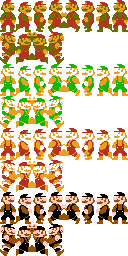
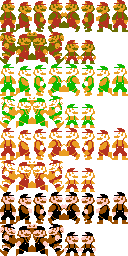
Animations powerup/powerdown, damage sound, deleted unused images

diff --git a/02-Bubble/Player.cpp b/02-Bubble/Player.cpp
@@ -23,7 +23,8 @@
 
 enum PlayerAnims
 {
-	STAND_LEFT, STAND_RIGHT, MOVE_LEFT, MOVE_RIGHT, SKID_RIGHT, SKID_LEFT, JUMP_RIGHT, JUMP_LEFT, DEATH, FLAGPOLE
+	STAND_LEFT, STAND_RIGHT, MOVE_LEFT, MOVE_RIGHT, SKID_RIGHT, SKID_LEFT, JUMP_RIGHT, JUMP_LEFT, DEATH, FLAGPOLE,
+	MID_LEFT, MID_RIGHT
 };
 
 
@@ -32,6 +33,7 @@ void Player::init(const glm::ivec2& tileMapPos, ShaderProgram& shaderProgram)
 	bJumping = false;
 	bigMario = false;
 	starMario = false;
+	powerDownAnim = false;
 	bFalling = false;
 	gameOver = false;
 	allowChangeTimer = 0;
@@ -39,10 +41,13 @@ void Player::init(const glm::ivec2& tileMapPos, ShaderProgram& shaderProgram)
 	vel = glm::vec2(0.f, 0.f);
 	jumpHeight = 69;
 	starTime = 0;
+	midTimer = -1;
 
 	// Small Mario
 
-	spritesheet.loadFromFile("images/mario128.png", TEXTURE_PIXEL_FORMAT_RGBA);
+	spritesheet.loadFromFile("images/mario128-s.png", TEXTURE_PIXEL_FORMAT_RGBA);
+	spritesheetBig.loadFromFile("images/big-mario-s.png", TEXTURE_PIXEL_FORMAT_RGBA);
+
 	sprite = Sprite::createSprite(glm::ivec2(16, 16), glm::vec2(0.125, 0.125), &spritesheet, &shaderProgram);
 	sprite->setNumberAnimations(10);
 
@@ -74,7 +79,6 @@ void Player::init(const glm::ivec2& tileMapPos, ShaderProgram& shaderProgram)
 	sprite->setAnimationSpeed(JUMP_LEFT, 8);
 	sprite->addKeyframe(JUMP_LEFT, glm::vec2(0.5f, 0.125f));
 
-
 	sprite->setAnimationSpeed(DEATH, 1);
 	sprite->addKeyframe(DEATH, glm::vec2(0.25f, 0.125f));
 
@@ -87,9 +91,8 @@ void Player::init(const glm::ivec2& tileMapPos, ShaderProgram& shaderProgram)
 
 
 	// Big Mario
-	spritesheetBig.loadFromFile("images/big-mario.png", TEXTURE_PIXEL_FORMAT_RGBA);
 	bigSprite = Sprite::createSprite(glm::ivec2(16, 32), glm::vec2(0.125, 0.125), &spritesheetBig, &shaderProgram);
-	bigSprite->setNumberAnimations(8);
+	bigSprite->setNumberAnimations(12);
 
 	bigSprite->setAnimationSpeed(STAND_LEFT, 8);
 	bigSprite->addKeyframe(STAND_LEFT, glm::vec2(1.0 - 0.125, 0.f));
@@ -119,13 +122,19 @@ void Player::init(const glm::ivec2& tileMapPos, ShaderProgram& shaderProgram)
 	bigSprite->setAnimationSpeed(JUMP_LEFT, 8);
 	bigSprite->addKeyframe(JUMP_LEFT, glm::vec2(0.25f, 0.125f));
 
+	bigSprite->setAnimationSpeed(MID_RIGHT, 1);
+	bigSprite->addKeyframe(MID_RIGHT, glm::vec2(0.5f, 0.125f));
+
+	bigSprite->setAnimationSpeed(MID_LEFT, 1);
+	bigSprite->addKeyframe(MID_LEFT, glm::vec2(0.625f, 0.125f));
+
 	bigSprite->changeAnimation(0, false);
 	tileMapDispl = tileMapPos;
 	bigSprite->setPosition(glm::vec2(float(tileMapDispl.x + posPlayer.x), float(tileMapDispl.y + posPlayer.y)));
 
 	// Star Mario
 
-	spritesheet.loadFromFile("images/mario128-s.png", TEXTURE_PIXEL_FORMAT_RGBA);
+	//spritesheet.loadFromFile("images/mario128-s.png", TEXTURE_PIXEL_FORMAT_RGBA);
 	starSprite = Sprite::createSprite(glm::ivec2(16, 16), glm::vec2(0.125, 0.125), &spritesheet, &shaderProgram);
 	starSprite->setNumberAnimations(9);
 
@@ -207,7 +216,7 @@ void Player::init(const glm::ivec2& tileMapPos, ShaderProgram& shaderProgram)
 
 	spritesheetBig.loadFromFile("images/big-mario-s.png", TEXTURE_PIXEL_FORMAT_RGBA);
 	starbigSprite = Sprite::createSprite(glm::ivec2(16, 32), glm::vec2(0.125, 0.125), &spritesheetBig, &shaderProgram);
-	starbigSprite->setNumberAnimations(9);
+	starbigSprite->setNumberAnimations(12);
 
 	starbigSprite->setAnimationSpeed(STAND_LEFT, 8);
 	starbigSprite->addKeyframe(STAND_LEFT, glm::vec2(1.0 - 0.125, 0.f));
@@ -276,6 +285,19 @@ void Player::init(const glm::ivec2& tileMapPos, ShaderProgram& shaderProgram)
 	starbigSprite->setAnimationSpeed(FLAGPOLE, 1);
 	starbigSprite->addKeyframe(FLAGPOLE, glm::vec2(0.75f, 0.125f));
 
+	starbigSprite->setAnimationSpeed(MID_RIGHT, 4);
+	starbigSprite->addKeyframe(MID_RIGHT, glm::vec2(0.5f, 0.125f));
+	starbigSprite->addKeyframe(MID_RIGHT, glm::vec2(0.5f, 0.375f));
+	starbigSprite->addKeyframe(MID_RIGHT, glm::vec2(0.5f, 0.625f));
+	starbigSprite->addKeyframe(MID_RIGHT, glm::vec2(0.5f, 0.875f));
+
+	starbigSprite->setAnimationSpeed(MID_LEFT, 4);
+	starbigSprite->addKeyframe(MID_LEFT, glm::vec2(0.625f, 0.125f));
+	starbigSprite->addKeyframe(MID_LEFT, glm::vec2(0.625f, 0.375f));
+	starbigSprite->addKeyframe(MID_LEFT, glm::vec2(0.625f, 0.625f));
+	starbigSprite->addKeyframe(MID_LEFT, glm::vec2(0.625f, 0.875f));
+
+
 	starbigSprite->changeAnimation(0, false);
 	tileMapDispl = tileMapPos;
 	starbigSprite->setPosition(glm::vec2(float(tileMapDispl.x + posPlayer.x), float(tileMapDispl.y + posPlayer.y)));
@@ -303,6 +325,19 @@ void Player::update(int deltaTime)
 		if (posPlayer.y >= 256 && deadAnimCounter < 0) gameOver = true;
 
 		return;
+	}
+
+	if (midTimer >= 0){
+		midTimer -= deltaTime;
+
+		if (midTimer < 0)
+			changeAnimation(vel.x >= 0 ? STAND_RIGHT : STAND_LEFT);
+
+		if (midTimer < 0 && powerDownAnim){
+			powerDownAnim = false;
+			bigMario = false;
+			posPlayer.y += 16;
+		}
 	}
 
 	else if (flagpoleAnimStart){
@@ -338,14 +373,22 @@ void Player::update(int deltaTime)
 
 	// change to big mario
 	if (allowChangeTimer <= 0 && (Game::instance().getKey('m') || Game::instance().getKey('M'))){
-		bigMario = !bigMario;
 
-		if (bigMario) posPlayer.y -= 16;
+		if (!bigMario){ // Power up
+			bigMario = true;
+			posPlayer.y -= 16;
+		} 
+		else {          // Poweer down
+			powerDownAnim = true;
+		}
 
+		changeAnimation(vel.x >= 0 ? MID_RIGHT : MID_LEFT);
+		midTimer = 150;
 		// Wait for .5 second before pressing 'M'
-		allowChangeTimer = 500; 
+		allowChangeTimer = 200; 
 	}
 
+	// Change to star mario
 	if (allowChangeTimer <= 0 && (Game::instance().getKey('s') || Game::instance().getKey('S'))) {
 		starMario = !starMario;
 		if (starMario) {
@@ -405,11 +448,11 @@ void Player::update(int deltaTime)
 
 		if (vel.x < MIN_WALK_SPEED){
 			vel.x = 0;
-			if (!bJumping && !bFalling) changeAnimation(STAND_RIGHT);
+			if (!bJumping && !bFalling && midTimer < 0) changeAnimation(STAND_RIGHT);
 		}
 
 		// Check for skidding
-		if (Game::instance().getSpecialKey(GLUT_KEY_LEFT) && !bJumping && !bFalling){
+		if (Game::instance().getSpecialKey(GLUT_KEY_LEFT) && !bJumping && !bFalling && midTimer < 0){
 			if (sprite->animation() != SKID_RIGHT) changeAnimation(SKID_RIGHT);
 		}
 	}
@@ -420,10 +463,10 @@ void Player::update(int deltaTime)
 
 		if (vel.x > -MIN_WALK_SPEED){
 			vel.x = 0;
-			if (!bJumping && !bFalling) changeAnimation(STAND_LEFT);
+			if (!bJumping && !bFalling && midTimer < 0) changeAnimation(STAND_LEFT);
 		}
 
-		if (Game::instance().getSpecialKey(GLUT_KEY_RIGHT) && !bJumping && !bFalling){
+		if (Game::instance().getSpecialKey(GLUT_KEY_RIGHT) && !bJumping && !bFalling && midTimer < 0){
 			if (sprite->animation() != SKID_LEFT) changeAnimation(SKID_LEFT);
 		}
 	}
@@ -431,11 +474,11 @@ void Player::update(int deltaTime)
 
 	if (vel.x > 0 && !bJumping && !bFalling)
 	{
-		if (sprite->animation() != MOVE_RIGHT && sprite->animation() != SKID_RIGHT) changeAnimation(MOVE_RIGHT);
+		if (sprite->animation() != MOVE_RIGHT && sprite->animation() != SKID_RIGHT && midTimer < 0) changeAnimation(MOVE_RIGHT);
 
 	} else if (vel.x < 0 && !bJumping && !bFalling)
 	{
-		if (sprite->animation() != MOVE_LEFT && sprite->animation() != SKID_LEFT) changeAnimation(MOVE_LEFT);
+		if (sprite->animation() != MOVE_LEFT && sprite->animation() != SKID_LEFT && midTimer < 0) changeAnimation(MOVE_LEFT);
 	}
 
 
@@ -473,7 +516,7 @@ void Player::update(int deltaTime)
 		{
 			if (bFalling){
 				bFalling = false;
-				changeAnimation(vel.x >= 0 ? STAND_RIGHT : STAND_LEFT);
+				if (midTimer < 0) changeAnimation(vel.x >= 0 ? STAND_RIGHT : STAND_LEFT);
 			}
 
 			if (Game::instance().getKey(SPACE_KEY) || Game::instance().getSpecialKey(GLUT_KEY_UP))
@@ -541,11 +584,13 @@ void Player::update(int deltaTime)
 }
 
 void Player::changeAnimation(int animId){
-	sprite->changeAnimation(animId, starMario);
-	bigSprite->changeAnimation(animId, starMario);
+	if (animId != MID_LEFT && animId != MID_RIGHT) sprite->changeAnimation(animId, starMario);
+
+	if (animId != DEATH && animId != FLAGPOLE) bigSprite->changeAnimation(animId, starMario);
+
 	if (animId != DEATH) {
 		starbigSprite->changeAnimation(animId, starMario);
-		starSprite->changeAnimation(animId, starMario);
+		if (animId != MID_LEFT && animId != MID_RIGHT) starSprite->changeAnimation(animId, starMario);
 	}
 }
 
@@ -577,9 +622,14 @@ void Player::die(){
 	if (deadAnimStart) return; // Cannot die twice
 	if (invincibleCounter > 0) return;
 	if (starMario) return;
-	if (bigMario) { // Remove mushroom
-		bigMario = false;
-		posPlayer.y += 16;
+
+	if (bigMario) { // Power DOWN
+		Sound::instance().play(11); // Damage sound
+
+		powerDownAnim = true;
+		changeAnimation(vel.x >= 0 ? MID_RIGHT : MID_LEFT);
+		midTimer = 150;
+		//posPlayer.y += 16;
 		invincibleCounter = 1000;
 		return;
 	}
@@ -612,6 +662,8 @@ void Player::mushroom(){
 	posPlayer.y -= 16;
 	allowChangeTimer = 150; 
 
+	changeAnimation(vel.x >= 0 ? MID_RIGHT : MID_LEFT);
+	midTimer = 150;
 }
 
 void Player::star(){

diff --git a/02-Bubble/Sound.cpp b/02-Bubble/Sound.cpp
@@ -3,8 +3,8 @@
 #include "Sound.h"
 
 enum Songs {
-	JUMP, DEATH, COIN, BREAK, MUSHROOM, STAR, WIN, MAINTHEME, ZELDA, GOOMBA, KOOPA
-}; //  0     1     2       3       4      5    6      7          8      9     10
+	JUMP, DEATH, COIN, BREAK, MUSHROOM, STAR, WIN, MAINTHEME, ZELDA, GOOMBA, KOOPA, DAMAGE 
+}; //  0     1     2       3       4      5    6      7          8      9     10      11
 
 void Sound::init()
 {
@@ -40,27 +40,30 @@ void Sound::init()
 	musicVect[GOOMBA].openFromFile("audio/goomba.ogg");
 	
 	musicVect[KOOPA].openFromFile("audio/koopa.ogg");
+
+	musicVect[DAMAGE].openFromFile("audio/damage.ogg");
+	musicVect[DAMAGE].setVolume(300);
 }
 
 void Sound::play(int songIdx) {
-	if (songIdx < 0 || songIdx > 10) return;
+	if (songIdx < 0 || songIdx > 11) return;
 
 	musicVect[songIdx].setPlayingOffset(sf::Time::Zero);
 	musicVect[songIdx].play();
 }
 
 void Sound::stop(int songIdx){
-	if (songIdx < 0 || songIdx > 10) return;
+	if (songIdx < 0 || songIdx > 11) return;
 
 	musicVect[songIdx].stop();
 }
 
 int Sound::getStatus(int songIdx){
-	if (songIdx < 0 || songIdx > 10) return -1;
+	if (songIdx < 0 || songIdx > 11) return -1;
 
 	return musicVect[songIdx].getStatus();
 }
 
 void Sound::stopAll() {
-	for (int i = 0; i < 11; ++i) musicVect[i].stop();
+	for (int i = 0; i < 12; ++i) musicVect[i].stop();
 }

diff --git a/02-Bubble/Player.h b/02-Bubble/Player.h
@@ -49,10 +49,10 @@ private:
 
 	TileMap* map;
 
-	bool bigMario, gameOver, deadAnimStart, flagpoleAnimStart, flagpoleTouchdown, starMario;
+	bool bigMario, gameOver, deadAnimStart, flagpoleAnimStart, flagpoleTouchdown, starMario, powerDownAnim;
 	glm::vec2 vel, posPlayer;
 
-	int allowChangeTimer, deadAnimCounter, invincibleCounter, flagpoleAnimCounter, starTime;
+	int allowChangeTimer, deadAnimCounter, invincibleCounter, flagpoleAnimCounter, starTime, midTimer;
 	// Player plays Jump, Death and Star music
 };
 

diff --git a/02-Bubble/Sound.h b/02-Bubble/Sound.h
@@ -24,7 +24,7 @@ public:
 	void stopAll();
 
 private:
-	sf::Music musicVect[11];
+	sf::Music musicVect[12];
 };
 
 #endif //SOUND_INCLUDE
